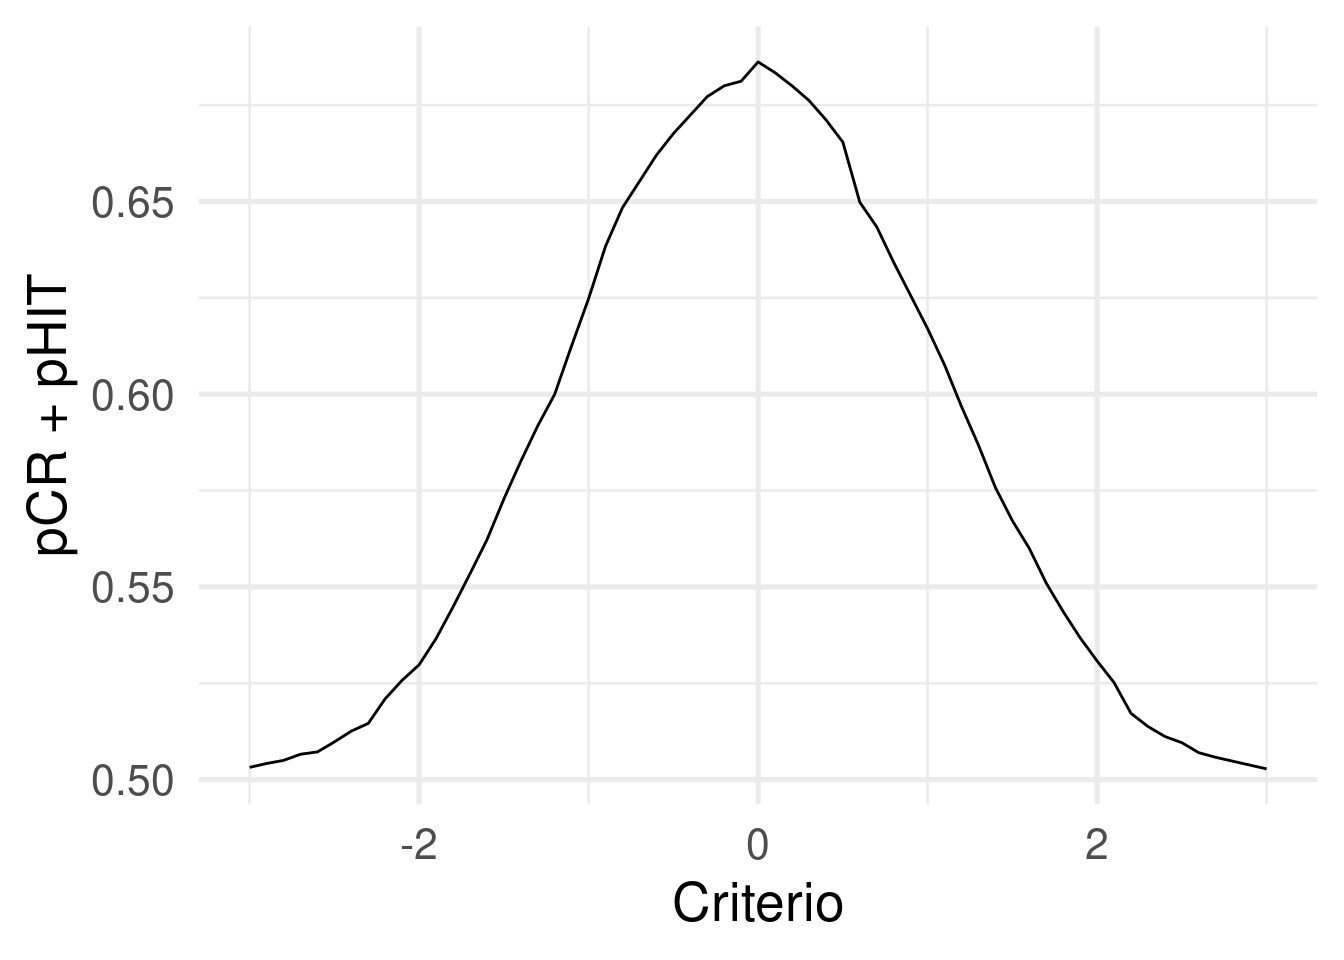
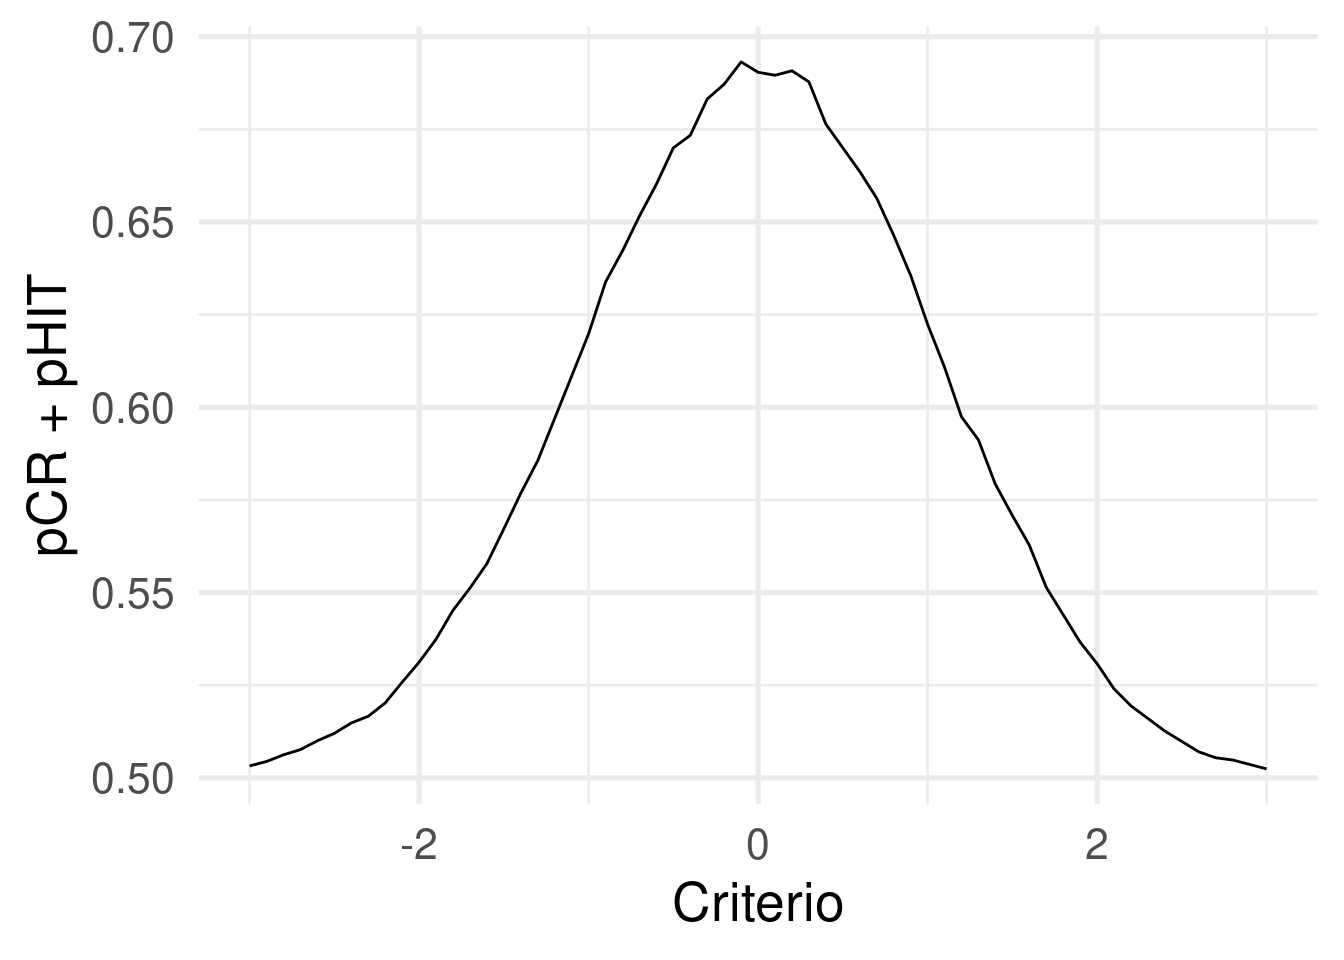
update

diff --git a/docs/materials/signal-detection-theory.html b/docs/materials/signal-detection-theory.html
@@ -192,6 +192,7 @@ window.Quarto = {
   <li><a href="#probit-link-3" id="toc-probit-link-3" class="nav-link" data-scroll-target="#probit-link-3">Probit link</a></li>
   <li><a href="#probit-link-4" id="toc-probit-link-4" class="nav-link" data-scroll-target="#probit-link-4">Probit link</a></li>
   <li><a href="#signal-detection-theory" id="toc-signal-detection-theory" class="nav-link" data-scroll-target="#signal-detection-theory">Signal Detection Theory</a></li>
+  <li><a href="#esempio-con-dati-veri" id="toc-esempio-con-dati-veri" class="nav-link" data-scroll-target="#esempio-con-dati-veri">Esempio con dati veri</a></li>
   </ul></li>
   </ul>
 </nav>
@@ -419,11 +420,11 @@ window.Quarto = {
 <div class="cell-output cell-output-stdout">
 <pre><code>  say_signal is_signal
 1          0         0
-2          0         1
+2          1         1
 3          0         0
-4          0         1
-5          1         0
-6          1         1</code></pre>
+4          1         1
+5          0         0
+6          0         1</code></pre>
 </div>
 </div>
 <p>Dove <code>is_signal</code> indica se la radiografia contiene il segnale o no e <code>say_signal</code> indica la risposta del soggetto.</p>
@@ -433,28 +434,28 @@ window.Quarto = {
 <span id="cb16-2"><a href="#cb16-2" aria-hidden="true" tabindex="-1"></a>cl</span></code><button title="Copy to Clipboard" class="code-copy-button"><i class="bi"></i></button></pre></div>
 <div class="cell-output cell-output-stdout">
 <pre><code>$hit
-[1] 13
-
-$miss
 [1] 12
 
+$miss
+[1] 13
+
 $fa
-[1] 5
+[1] 4
 
 $cr
-[1] 20
+[1] 21
 
 $phit
-[1] 0.52
-
-$pfa
-[1] 0.2
-
-$pmiss
 [1] 0.48
 
+$pfa
+[1] 0.16
+
+$pmiss
+[1] 0.52
+
 $pcr
-[1] 0.8
+[1] 0.84
 
 $c
 [1] NA</code></pre>
@@ -465,12 +466,12 @@ $c
 <div class="sourceCode cell-code" id="cb18"><pre class="sourceCode r code-with-copy"><code class="sourceCode r"><span id="cb18-1"><a href="#cb18-1" aria-hidden="true" tabindex="-1"></a><span class="co"># dprime</span></span>
 <span id="cb18-2"><a href="#cb18-2" aria-hidden="true" tabindex="-1"></a><span class="fu">qnorm</span>(cl<span class="sc">$</span>phit) <span class="sc">-</span> <span class="fu">qnorm</span>(cl<span class="sc">$</span>pfa)</span></code><button title="Copy to Clipboard" class="code-copy-button"><i class="bi"></i></button></pre></div>
 <div class="cell-output cell-output-stdout">
-<pre><code>[1] 0.8917748</code></pre>
+<pre><code>[1] 0.9443043</code></pre>
 </div>
 <div class="sourceCode cell-code" id="cb20"><pre class="sourceCode r code-with-copy"><code class="sourceCode r"><span id="cb20-1"><a href="#cb20-1" aria-hidden="true" tabindex="-1"></a><span class="co"># criterio</span></span>
 <span id="cb20-2"><a href="#cb20-2" aria-hidden="true" tabindex="-1"></a><span class="sc">-</span>(<span class="fu">qnorm</span>(cl<span class="sc">$</span>phit) <span class="sc">+</span> <span class="fu">qnorm</span>(cl<span class="sc">$</span>pfa)) <span class="sc">/</span> <span class="dv">2</span> <span class="co"># - perchè per convenzione c negativo = liberale, c positivo = conservatore</span></span></code><button title="Copy to Clipboard" class="code-copy-button"><i class="bi"></i></button></pre></div>
 <div class="cell-output cell-output-stdout">
-<pre><code>[1] 0.3957338</code></pre>
+<pre><code>[1] 0.5223057</code></pre>
 </div>
 </div>
 <p>Gli stessi parametri possono essere stimati con un <code>glm</code> binomiale con link function <code>probit</code>. Infatti il criterio è il punto di mezzo tra signal e noise mentre il <span class="math inline">\(d'\)</span> non è altro che la distanza tra le due distribuzioni (di segnale e rumore).</p>
@@ -489,18 +490,18 @@ glm(formula = say_signal01 ~ is_signal, family = binomial(link = "probit"),
 
 Coefficients:
             Estimate Std. Error z value Pr(&gt;|z|)  
-(Intercept)  0.05015    0.25078   0.200    0.841  
-is_signal0  -0.89177    0.38019  -2.346    0.019 *
+(Intercept) -0.05015    0.25078  -0.200    0.841  
+is_signal0  -0.94430    0.39204  -2.409    0.016 *
 ---
 Signif. codes:  0 '***' 0.001 '**' 0.01 '*' 0.05 '.' 0.1 ' ' 1
 
 (Dispersion parameter for binomial family taken to be 1)
 
-    Null deviance: 65.342  on 49  degrees of freedom
-Residual deviance: 59.637  on 48  degrees of freedom
-AIC: 63.637
+    Null deviance: 62.687  on 49  degrees of freedom
+Residual deviance: 56.601  on 48  degrees of freedom
+AIC: 60.601
 
-Number of Fisher Scoring iterations: 4</code></pre>
+Number of Fisher Scoring iterations: 3</code></pre>
 </div>
 </div>
 <p>L’intercetta è la probabilità (in <span class="math inline">\(z\)</span> scores) di rispondere Si quando il segnale è 0 (catch). Quindi è la probabilità di fare falsi allarmi.</p>
@@ -520,19 +521,19 @@ glm(formula = say_signal01 ~ is_signal, family = binomial(link = "probit"),
     data = dat, contrasts = list(is_signal = contr.sum(2)/2))
 
 Coefficients:
-            Estimate Std. Error z value Pr(&gt;|z|)  
-(Intercept)  -0.3957     0.1901  -2.082   0.0374 *
-is_signal1    0.8918     0.3802   2.346   0.0190 *
+            Estimate Std. Error z value Pr(&gt;|z|)   
+(Intercept)  -0.5223     0.1960  -2.665  0.00771 **
+is_signal1    0.9443     0.3920   2.409  0.01601 * 
 ---
 Signif. codes:  0 '***' 0.001 '**' 0.01 '*' 0.05 '.' 0.1 ' ' 1
 
 (Dispersion parameter for binomial family taken to be 1)
 
-    Null deviance: 65.342  on 49  degrees of freedom
-Residual deviance: 59.637  on 48  degrees of freedom
-AIC: 63.637
+    Null deviance: 62.687  on 49  degrees of freedom
+Residual deviance: 56.601  on 48  degrees of freedom
+AIC: 60.601
 
-Number of Fisher Scoring iterations: 4</code></pre>
+Number of Fisher Scoring iterations: 3</code></pre>
 </div>
 </div>
 <p>Attenzione che per come è parametrizzato, il criterio ha il segno opposto rispetto a quello convenzionale.</p>
@@ -540,12 +541,12 @@ Number of Fisher Scoring iterations: 4</code></pre>
 <div class="cell">
 <div class="cell-output cell-output-stdout">
 <pre><code>  say_signal is_signal          x cond
-1          1         0 -0.1394558  low
-2          1         1  0.9247223  low
-3          1         0  0.4679482  low
-4          1         1  2.5450425  low
-5          0         0 -0.6927086  low
-6          1         1 -0.3094458  low</code></pre>
+1          0         0 -1.0198272  low
+2          1         1  1.3471905  low
+3          1         0  0.6164624  low
+4          1         1  0.4093837  low
+5          0         0 -1.1217480  low
+6          1         1  0.3081716  low</code></pre>
 </div>
 </div>
 <div class="cell">
@@ -581,17 +582,17 @@ Number of Fisher Scoring iterations: 4</code></pre>
   "probit"), data = dat, contrasts = list(is_signal = -contr.sum(2)/2))
 
                    Model 1 Model 2 Model 3
-(Intercept)        -0.4798  0.5210  0.5210
-SE                  0.0195  0.0197  0.0197
+(Intercept)        -0.5246  0.4992  0.4992
+SE                  0.0197  0.0197  0.0197
                                           
-is_signal1          0.9837  1.0139  1.0139
-SE                  0.0390  0.0395  0.0395
+is_signal1          1.0031  1.0405  1.0405
+SE                  0.0395  0.0394  0.0394
                                           
-condlow                            -1.0008
-SE                                  0.0278
+condlow                            -1.0238
+SE                                  0.0279
                                           
-is_signal1:condlow                 -0.0301
-SE                                  0.0555
+is_signal1:condlow                 -0.0374
+SE                                  0.0558
                                           </code></pre>
 </div>
 <div class="sourceCode cell-code" id="cb29"><pre class="sourceCode r code-with-copy"><code class="sourceCode r"><span id="cb29-1"><a href="#cb29-1" aria-hidden="true" tabindex="-1"></a><span class="fu">library</span>(multcomp)</span>
@@ -620,12 +621,12 @@ Fit: glm(formula = say_signal ~ is_signal * cond, family = binomial(link = "prob
 
 Linear Hypotheses:
                                      Estimate Std. Error z value Pr(&gt;|z|)    
--(Intercept) == 0                    -0.52097    0.01975 -26.379   &lt;1e-05 ***
--(Intercept) + condlow == 0          -1.52176    0.04405 -34.546   &lt;1e-05 ***
-is_signal1 == 0                       1.01386    0.03950  25.668   &lt;1e-05 ***
-is_signal1 + is_signal1:condlow == 0  0.98373    0.03900  25.223   &lt;1e-05 ***
-condlow == 0                         -1.00080    0.02775 -36.059   &lt;1e-05 ***
-is_signal1:condlow == 0              -0.03012    0.05551  -0.543    0.964    
+-(Intercept) == 0                    -0.49919    0.01971 -25.325   &lt;1e-05 ***
+-(Intercept) + condlow == 0          -1.52300    0.04409 -34.544   &lt;1e-05 ***
+is_signal1 == 0                       1.04048    0.03942  26.394   &lt;1e-05 ***
+is_signal1 + is_signal1:condlow == 0  1.00313    0.03948  25.406   &lt;1e-05 ***
+condlow == 0                         -1.02381    0.02790 -36.699   &lt;1e-05 ***
+is_signal1:condlow == 0              -0.03735    0.05579  -0.669    0.928    
 ---
 Signif. codes:  0 '***' 0.001 '**' 0.01 '*' 0.05 '.' 0.1 ' ' 1
 (Adjusted p values reported -- single-step method)</code></pre>
@@ -691,6 +692,30 @@ Signif. codes:  0 '***' 0.001 '**' 0.01 '*' 0.05 '.' 0.1 ' ' 1
 <span id="cb32-36"><a href="#cb32-36" aria-hidden="true" tabindex="-1"></a>       <span class="at">pcr =</span> cr <span class="sc">/</span> (cr <span class="sc">+</span> fa),</span>
 <span id="cb32-37"><a href="#cb32-37" aria-hidden="true" tabindex="-1"></a>       <span class="at">c =</span> c)</span>
 <span id="cb32-38"><a href="#cb32-38" aria-hidden="true" tabindex="-1"></a>}</span></code><button title="Copy to Clipboard" class="code-copy-button"><i class="bi"></i></button></pre></div>
+</section>
+<section id="esempio-con-dati-veri" class="level2">
+<h2 class="anchored" data-anchor-id="esempio-con-dati-veri">Esempio con dati veri</h2>
+<p>Partendo da questo tutorial <a href="https://vuorre.com/posts/sdt-regression/index.html">https://vuorre.com/posts/sdt-regression/index.html</a> usiamo il dataset <code>data/sdt-example.rds</code>.</p>
+<div class="cell">
+<div class="sourceCode cell-code" id="cb33"><pre class="sourceCode r code-with-copy"><code class="sourceCode r"><span id="cb33-1"><a href="#cb33-1" aria-hidden="true" tabindex="-1"></a>dat <span class="ot">&lt;-</span> <span class="fu">readRDS</span>(<span class="fu">here</span>(<span class="st">"data"</span>, <span class="st">"sdt-example.rds"</span>))</span>
+<span id="cb33-2"><a href="#cb33-2" aria-hidden="true" tabindex="-1"></a><span class="fu">head</span>(dat)</span></code><button title="Copy to Clipboard" class="code-copy-button"><i class="bi"></i></button></pre></div>
+<div class="cell-output cell-output-stdout">
+<pre><code># A tibble: 6 × 4
+  pid   trial stimulus response
+  &lt;fct&gt; &lt;int&gt; &lt;fct&gt;    &lt;fct&gt;   
+1 1         1 Old      New     
+2 1         2 Old      New     
+3 1         3 Old      New     
+4 1         4 Old      New     
+5 1         5 Old      New     
+6 1         6 Old      New     </code></pre>
+</div>
+</div>
+<ul>
+<li>per ogni soggetto calcoliamo i parametri di SDT (Hit, FA, etc.)</li>
+<li>calcoliamo manualmente <span class="math inline">\(d'\)</span> e criterio con il pacchetto <code>psycho::dprime()</code></li>
+<li>fittiamo un modello probit multilivello per stimare i parametri e confrontiamoli</li>
+</ul>
 
 
 </section>

diff --git a/docs/slides.html b/docs/slides.html
@@ -280,7 +280,7 @@ script
 <span class="listing-script">&nbsp;</span>
 </td>
 </tr>
-<tr data-index="5" data-listing-file-modified-sort="1743960213681" data-listing-reading-time-sort="12" data-listing-word-count-sort="2324" data-listing-title-sort="Introduction to Meta-Analysis" data-listing-filename-sort="intro-meta-analysis.qmd">
+<tr data-index="5" data-listing-file-modified-sort="1744026467073" data-listing-reading-time-sort="12" data-listing-word-count-sort="2324" data-listing-title-sort="Introduction to Meta-Analysis" data-listing-filename-sort="intro-meta-analysis.qmd">
 <td>
 <a href="./slides/06-meta-analysis/02-intro-meta-analysis/intro-meta-analysis.html" class="title listing-title">Introduction to Meta-Analysis</a>
 </td>
@@ -288,7 +288,7 @@ script
 <span class="listing-script">&nbsp;</span>
 </td>
 </tr>
-<tr data-index="6" data-listing-file-modified-sort="1743960214595" data-listing-reading-time-sort="23" data-listing-word-count-sort="4588" data-listing-title-sort="Meta-analysis Models" data-listing-filename-sort="meta-analysis-models.qmd">
+<tr data-index="6" data-listing-file-modified-sort="1744026467076" data-listing-reading-time-sort="23" data-listing-word-count-sort="4588" data-listing-title-sort="Meta-analysis Models" data-listing-filename-sort="meta-analysis-models.qmd">
 <td>
 <a href="./slides/06-meta-analysis/03-meta-analysis-models/meta-analysis-models.html" class="title listing-title">Meta-analysis Models</a>
 </td>
@@ -296,7 +296,7 @@ script
 <span class="listing-script">&nbsp;</span>
 </td>
 </tr>
-<tr data-index="7" data-listing-file-modified-sort="1743960215317" data-listing-reading-time-sort="11" data-listing-word-count-sort="2013" data-listing-title-sort="Meta-regression" data-listing-filename-sort="meta-regression.qmd">
+<tr data-index="7" data-listing-file-modified-sort="1744026467101" data-listing-reading-time-sort="11" data-listing-word-count-sort="2013" data-listing-title-sort="Meta-regression" data-listing-filename-sort="meta-regression.qmd">
 <td>
 <a href="./slides/06-meta-analysis/04-meta-regression/meta-regression.html" class="title listing-title">Meta-regression</a>
 </td>
@@ -304,7 +304,7 @@ script
 <span class="listing-script">&nbsp;</span>
 </td>
 </tr>
-<tr data-index="8" data-listing-file-modified-sort="1743960441534" data-listing-reading-time-sort="13" data-listing-word-count-sort="2594" data-listing-title-sort="Power analysis" data-listing-filename-sort="power-analysis.qmd">
+<tr data-index="8" data-listing-file-modified-sort="1744026467123" data-listing-reading-time-sort="13" data-listing-word-count-sort="2594" data-listing-title-sort="Power analysis" data-listing-filename-sort="power-analysis.qmd">
 <td>
 <a href="./slides/06-meta-analysis/06-power-analysis/power-analysis.html" class="title listing-title">Power analysis</a>
 </td>
@@ -312,7 +312,7 @@ script
 <span class="listing-script">&nbsp;</span>
 </td>
 </tr>
-<tr data-index="9" data-listing-file-modified-sort="1743960173820" data-listing-reading-time-sort="16" data-listing-word-count-sort="3190" data-listing-title-sort="Publication Bias" data-listing-filename-sort="publication-bias.qmd">
+<tr data-index="9" data-listing-file-modified-sort="1744026467113" data-listing-reading-time-sort="16" data-listing-word-count-sort="3190" data-listing-title-sort="Publication Bias" data-listing-filename-sort="publication-bias.qmd">
 <td>
 <a href="./slides/06-meta-analysis/05-publication-bias/publication-bias.html" class="title listing-title">Publication Bias</a>
 </td>

diff --git a/docs/materials.html b/docs/materials.html
@@ -264,7 +264,7 @@ script
 <span class="listing-script">&nbsp;</span>
 </td>
 </tr>
-<tr data-index="3" data-listing-file-modified-sort="1743959554386" data-listing-reading-time-sort="18" data-listing-word-count-sort="3598" data-listing-title-sort="Signal Detection Theory" data-listing-filename-sort="signal-detection-theory.qmd">
+<tr data-index="3" data-listing-file-modified-sort="1744027211632" data-listing-reading-time-sort="19" data-listing-word-count-sort="3644" data-listing-title-sort="Signal Detection Theory" data-listing-filename-sort="signal-detection-theory.qmd">
 <td>
 <a href="./materials/signal-detection-theory.html" class="title listing-title">Signal Detection Theory</a>
 </td>
@@ -272,7 +272,7 @@ script
 <span class="listing-script">&nbsp;</span>
 </td>
 </tr>
-<tr data-index="4" data-listing-file-modified-sort="1744025540350" data-listing-reading-time-sort="1" data-listing-word-count-sort="86" data-listing-title-sort="Useful GLMER tools" data-listing-filename-sort="useful-glmer-tools.qmd">
+<tr data-index="4" data-listing-file-modified-sort="1744026467071" data-listing-reading-time-sort="1" data-listing-word-count-sort="86" data-listing-title-sort="Useful GLMER tools" data-listing-filename-sort="useful-glmer-tools.qmd">
 <td>
 <a href="./materials/useful-glmer-tools.html" class="title listing-title">Useful GLMER tools</a>
 </td>

diff --git a/docs/scripts-lectures.html b/docs/scripts-lectures.html
@@ -237,7 +237,7 @@ window.Quarto = {
 </tr>
 </thead>
 <tbody class="list">
-<tr data-index="0" data-listing-file-modified-sort="1743958939447" data-listing-reading-time-sort="1" data-listing-word-count-sort="22" data-listing-title-sort="2025-04-07" data-listing-filename-sort="2025-04-07.qmd">
+<tr data-index="0" data-listing-file-modified-sort="1744026467071" data-listing-reading-time-sort="1" data-listing-word-count-sort="22" data-listing-title-sort="2025-04-07" data-listing-filename-sort="2025-04-07.qmd">
 <td>
 <a href="./scripts-lectures/2025-04-07.html" class="title listing-title">2025-04-07</a>
 </td>
